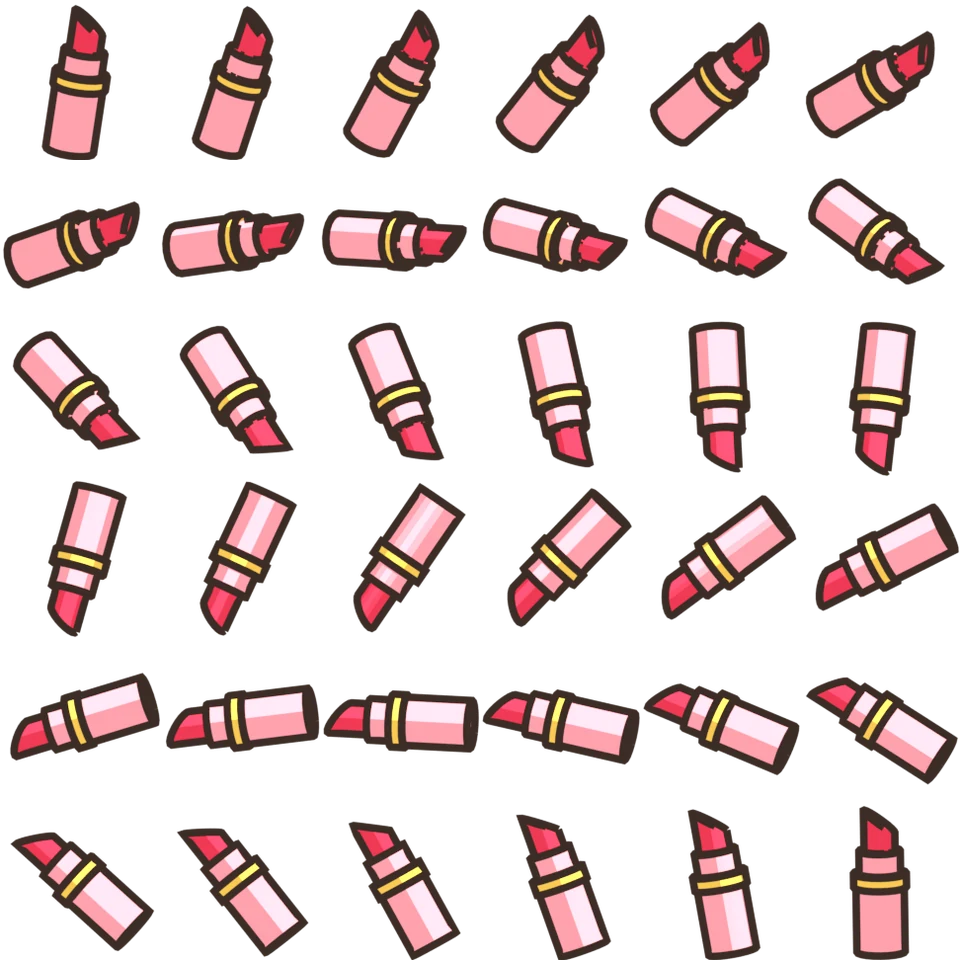
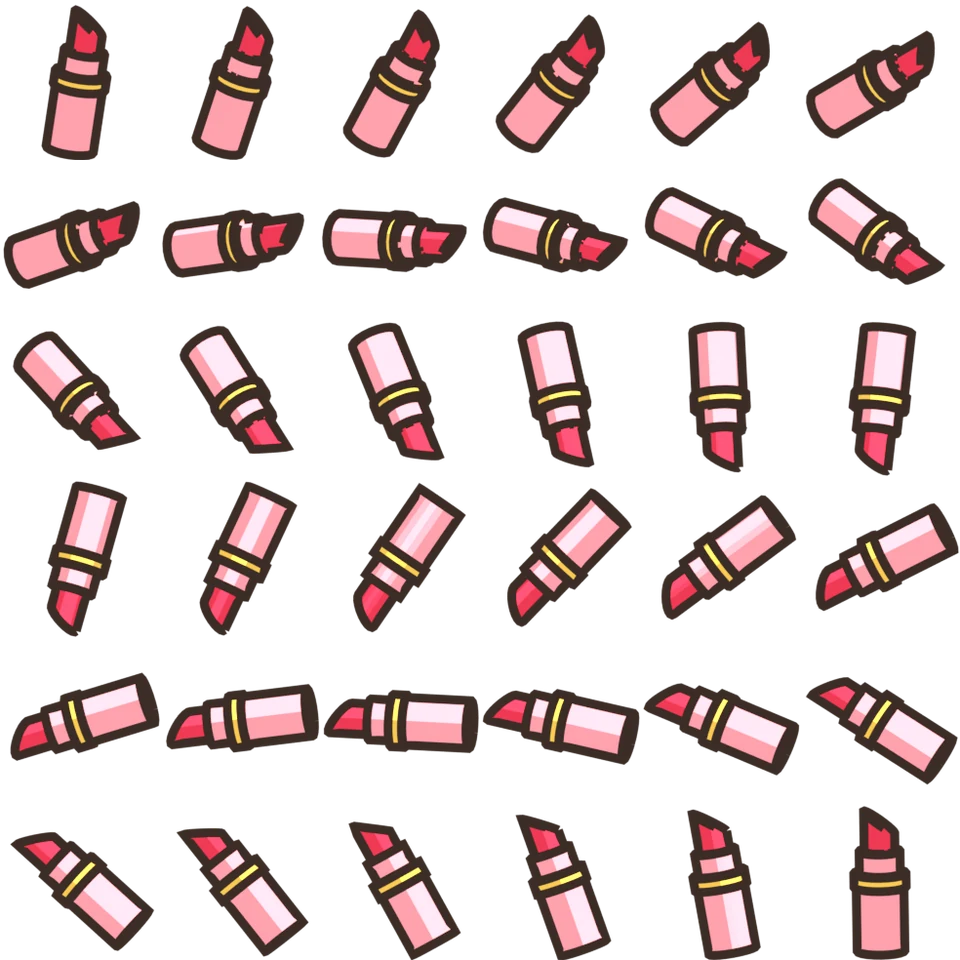
feat: 口红缩小(r 28)、香蕉放大(r 40)，贴图按新尺寸重渲

diff --git a/chashouji/web/main.js b/chashouji/web/main.js
@@ -951,8 +951,9 @@ const GIFT = {
   // 查岗党（女方，在左，from=+1）
   /* 口红（2026-09-26 替换发卡）：一次礼物三支、隔 0.5 秒一支，瞄男生的腰和大腿（aim: 'hip'，他的藏青短裤），
      也**只在那里碰撞**；淡红管身，砸中是粉色爆点，在短裤上留下粉点（stain）。常规火力那一路也飞口红，
-     但照旧按外轮廓碰、不留点。发卡的贴图和矢量画法留在 ammo.js 当备选。 */
-  lipstick:{ name: '口红',   from: +1, style: 'single', item: 'lipstick', r: 34, n: 3, gap: 0.5, aim: 'hip', stain: true,
+     但照旧按外轮廓碰、不留点。发卡的贴图和矢量画法留在 ammo.js 当备选。
+     r 34→28（用户：口红体积过大）；香蕉 34→40（用户：稍微变大）。贴图按新 r 重渲（screen_r），描边仍是 2.8px。 */
+  lipstick:{ name: '口红',   from: +1, style: 'single', item: 'lipstick', r: 28, n: 3, gap: 0.5, aim: 'hip', stain: true,
              spin: 5.7, power: 1, recipe: 'rouge',   push: 1 },
   pillow:  { name: '抱枕',   from: +1, style: 'single', item: 'pillow',  r: 56,       spin: 5.7, power: 2, recipe: 'feather', push: 20 },
   bouquet: { name: '花束',   from: +1, style: 'heavy',  item: 'bouquet', r: 76,       spin: 6.7, power: 3, recipe: 'petal',   push: 230 },
@@ -964,7 +965,7 @@ const GIFT = {
   /* 香蕉（2026-09-26 替换瓜子）：一次礼物三根、隔 0.5 秒一根（gap），瞄女生的脸（aim），碰撞点也是脸
      （穿过手臂、头发边，贴到脸上才爆）；砸中是白色爆点，脸上留下白点（stain，见 stainAt）。常规火力
      那一路也飞香蕉，但照旧避开脸（ammo.js 的 free），所以白点只在刷礼物时出现。飞行 0.55s，spin = π/0.55。 */
-  banana:  { name: '香蕉',   from: -1, style: 'single', item: 'banana',  r: 34, n: 3, gap: 0.5, aim: 'face', stain: true,
+  banana:  { name: '香蕉',   from: -1, style: 'single', item: 'banana',  r: 40, n: 3, gap: 0.5, aim: 'face', stain: true,
              spin: 5.7, power: 1, recipe: 'cream',   push: 1 },
   gamepad: { name: '手柄',   from: -1, style: 'single', item: 'gamepad', r: 52,       spin: 5.7, power: 2, recipe: 'debris',  push: 20 },
   milktea: { name: '奶茶',   from: -1, style: 'heavy',  item: 'milktea', r: 72,       spin: 6.7, power: 3, recipe: 'splash',  push: 230 },

diff --git a/chashouji/web/ammo.js b/chashouji/web/ammo.js
@@ -429,8 +429,8 @@ const Ammo = (function () {
     photo:   { src: 'assets/items/photo_atlas.webp',   n: 36, cols: 6, cell: 336, scale: 1.38 },
     hairpin: { src: 'assets/items/hairpin_atlas.webp', n: 36, cols: 6, cell: 138, scale: 1.42 },
     seed:    { src: 'assets/items/seed_atlas.webp',    n: 36, cols: 6, cell: 130, scale: 1.34 },
-    banana:  { src: 'assets/items/banana_atlas.webp',  n: 36, cols: 6, cell: 160, scale: 1.11 },
-    lipstick:{ src: 'assets/items/lipstick_atlas.webp', n: 36, cols: 6, cell: 160, scale: 1.11 },
+    banana:  { src: 'assets/items/banana_atlas.webp',  n: 36, cols: 6, cell: 160, scale: 1.09 },
+    lipstick:{ src: 'assets/items/lipstick_atlas.webp', n: 36, cols: 6, cell: 160, scale: 1.13 },
     pillow:  { src: 'assets/items/pillow_atlas.webp',  n: 36, cols: 6, cell: 160, scale: 1.16 },
     gamepad: { src: 'assets/items/gamepad_atlas.webp', n: 36, cols: 6, cell: 160, scale: 1.06 },
   };

diff --git a/chashouji/tools/3d/lipstick.py b/chashouji/tools/3d/lipstick.py
@@ -63,4 +63,4 @@ mid = Vector([(lo[k] + hi[k]) / 2 for k in range(3)])
 s = NOMINAL / max(hi[k] - lo[k] for k in range(3))
 ob.matrix_world = Matrix.Diagonal((s, s, s, 1.0)) @ Matrix.Translation(-mid)
 
-render_turntable('lipstick', active=ob, lean=20, tilt=0.25, roll=0.15, screen_r=34)
+render_turntable('lipstick', active=ob, lean=20, tilt=0.25, roll=0.15, screen_r=28)

diff --git a/chashouji/tools/3d/banana.py b/chashouji/tools/3d/banana.py
@@ -106,4 +106,4 @@ mid = Vector([(lo[k] + hi[k]) / 2 for k in range(3)])
 s = NOMINAL / max(hi[k] - lo[k] for k in range(3))
 ob.matrix_world = Matrix.Diagonal((s, s, s, 1.0)) @ Matrix.Translation(-mid)
 
-render_turntable('banana', active=ob, lean=20, tilt=0.25, roll=0.15, screen_r=34)
+render_turntable('banana', active=ob, lean=20, tilt=0.25, roll=0.15, screen_r=40)

diff --git a/.claude/skills/chashouji-web/SKILL.md b/.claude/skills/chashouji-web/SKILL.md
@@ -349,8 +349,8 @@ timeout 150 scp -q assets/world/* kf-deployment:/home/op/chashouji/web/assets/wo
 - 看结算：`?live=1&liveA=200&liveB=0&livet=120&overt=3`（灭迹党胜把 A/B 对调）。
 
 ## 瞄部位的档 1：香蕉 / 口红（2026-09-26，替换瓜子 / 发卡）
-- `GIFT.banana`（灭迹党）：`n:3, gap:0.5, aim:'face', stain:true, recipe:'cream'`（白爆点 + 女生脸上白点）。
-- `GIFT.lipstick`（查岗党）：`n:3, gap:0.5, aim:'hip', stain:true, recipe:'rouge'`（粉爆点 + 男生短裤上粉点），淡红管身。
+- `GIFT.banana`（灭迹党）：`r:40, n:3, gap:0.5, aim:'face', stain:true, recipe:'cream'`（白爆点 + 女生脸上白点）。
+- `GIFT.lipstick`（查岗党）：`r:28, n:3, gap:0.5, aim:'hip', stain:true, recipe:'rouge'`（粉爆点 + 男生短裤上粉点），淡红管身。
 - **碰撞点是部位，不是外轮廓**：ammo.js 出手时 `p.aimKey = Math.random()`，每帧 `aimAt(g, key)` 重取 [碰撞 x, y]，
   高度按 `1-exp(-12dt)` 追过去、x 到了就爆（人倒下/迈步部位跟着挪）。没有 aimKey 的照旧走 `frontAt`。
 - main.js `aimAt`：face = 脸朝对方那半边（`f[0] - from*0.5r`）、上下 ±0.2r；hip = `hipOf().pts` 第 key 行的左沿 +5。
